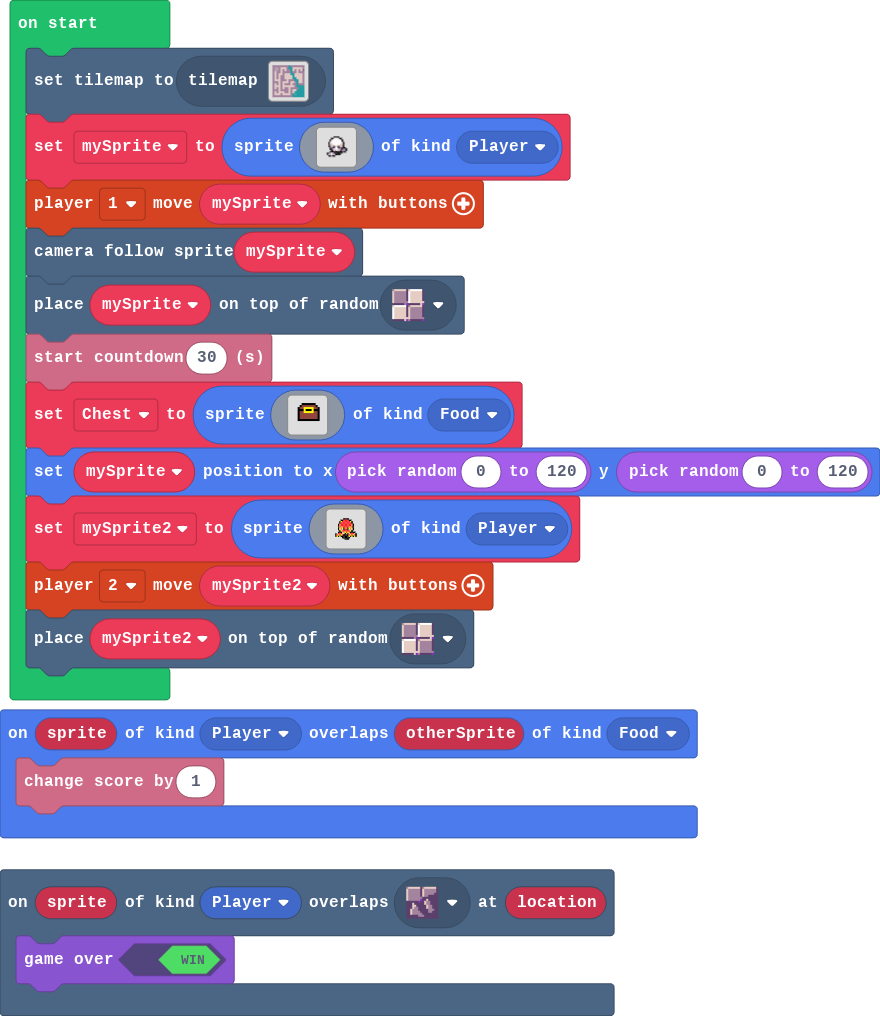
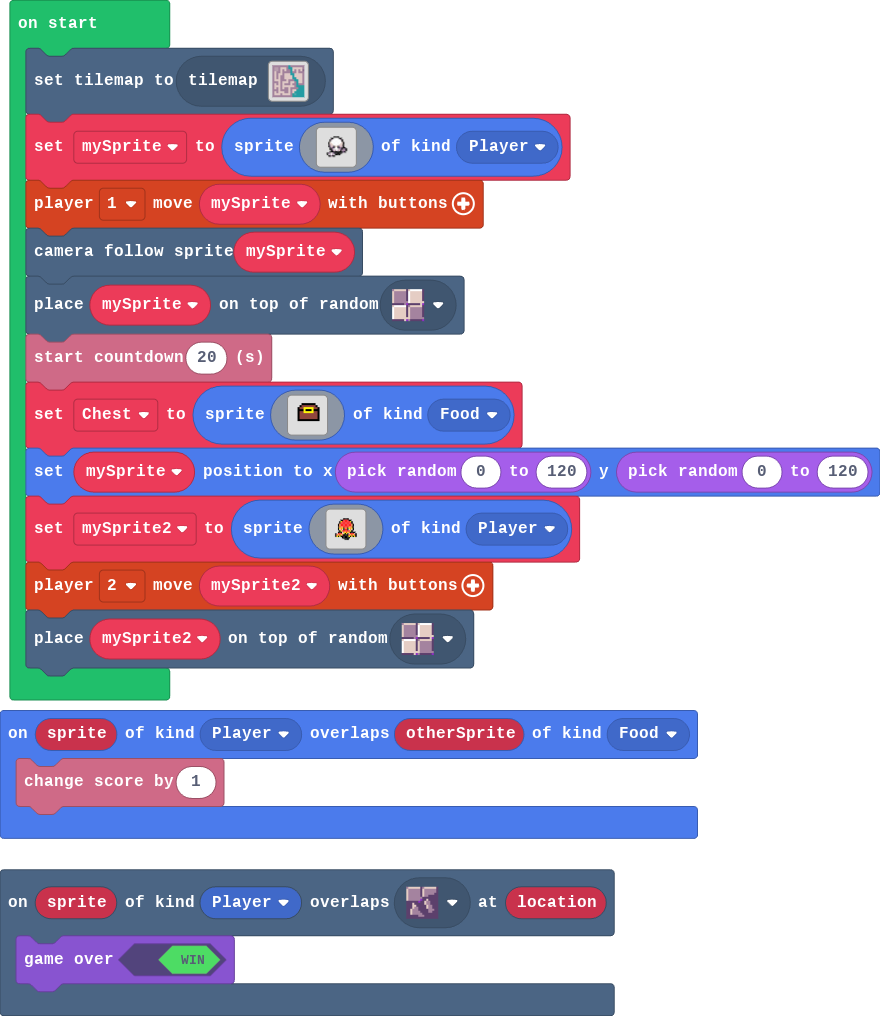
Restore '2/28/2025, 12:38:08 PM Update main.blocks, main.ts'

diff --git a/main.ts b/main.ts
@@ -34,7 +34,7 @@ let mySprite = sprites.create(img`
 controller.player1.moveSprite(mySprite)
 scene.cameraFollowSprite(mySprite)
 tiles.placeOnRandomTile(mySprite, sprites.dungeon.floorMixed)
-info.startCountdown(30)
+info.startCountdown(20)
 let Chest = sprites.create(img`
     . . . . . . . . . . . . . . . . 
     . . . . . . . . . . . . . . . . 
